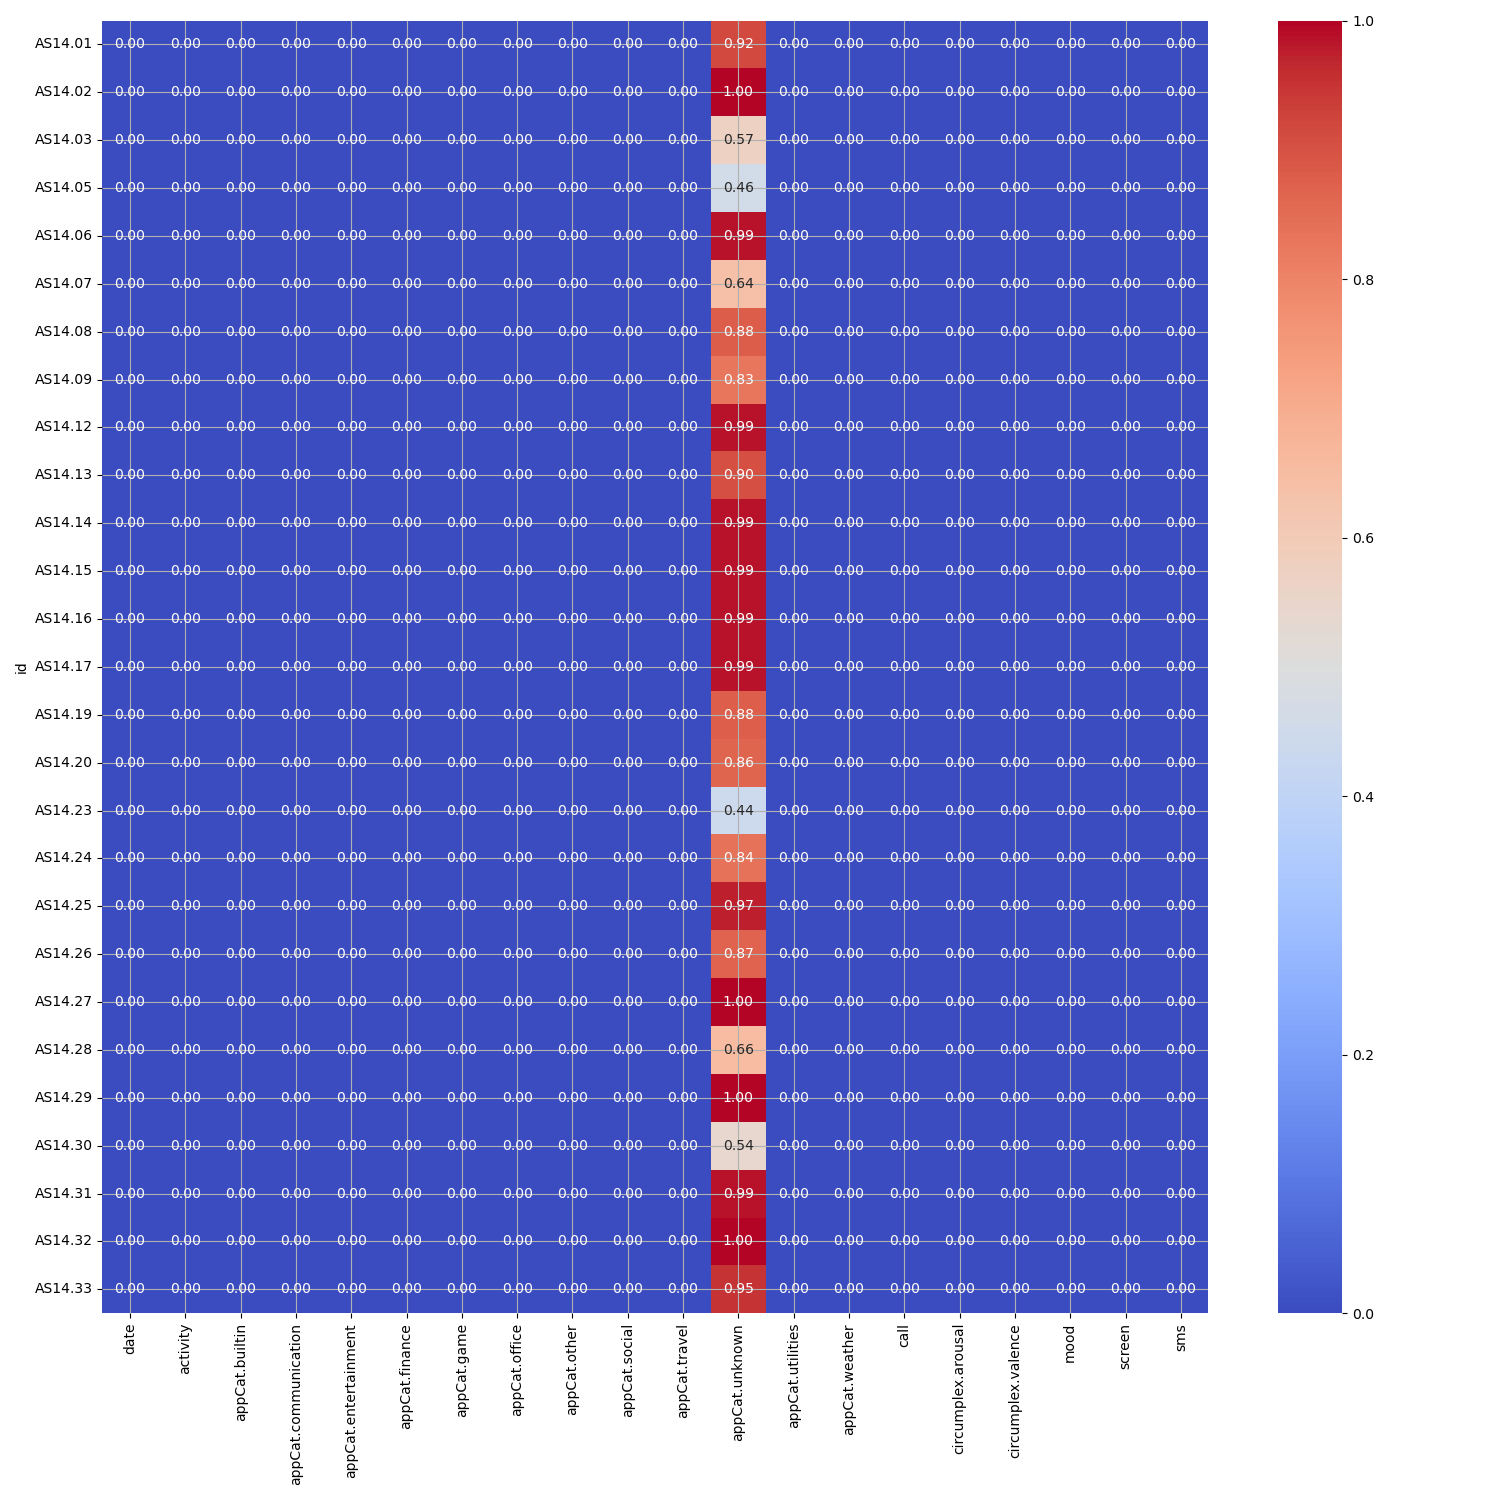
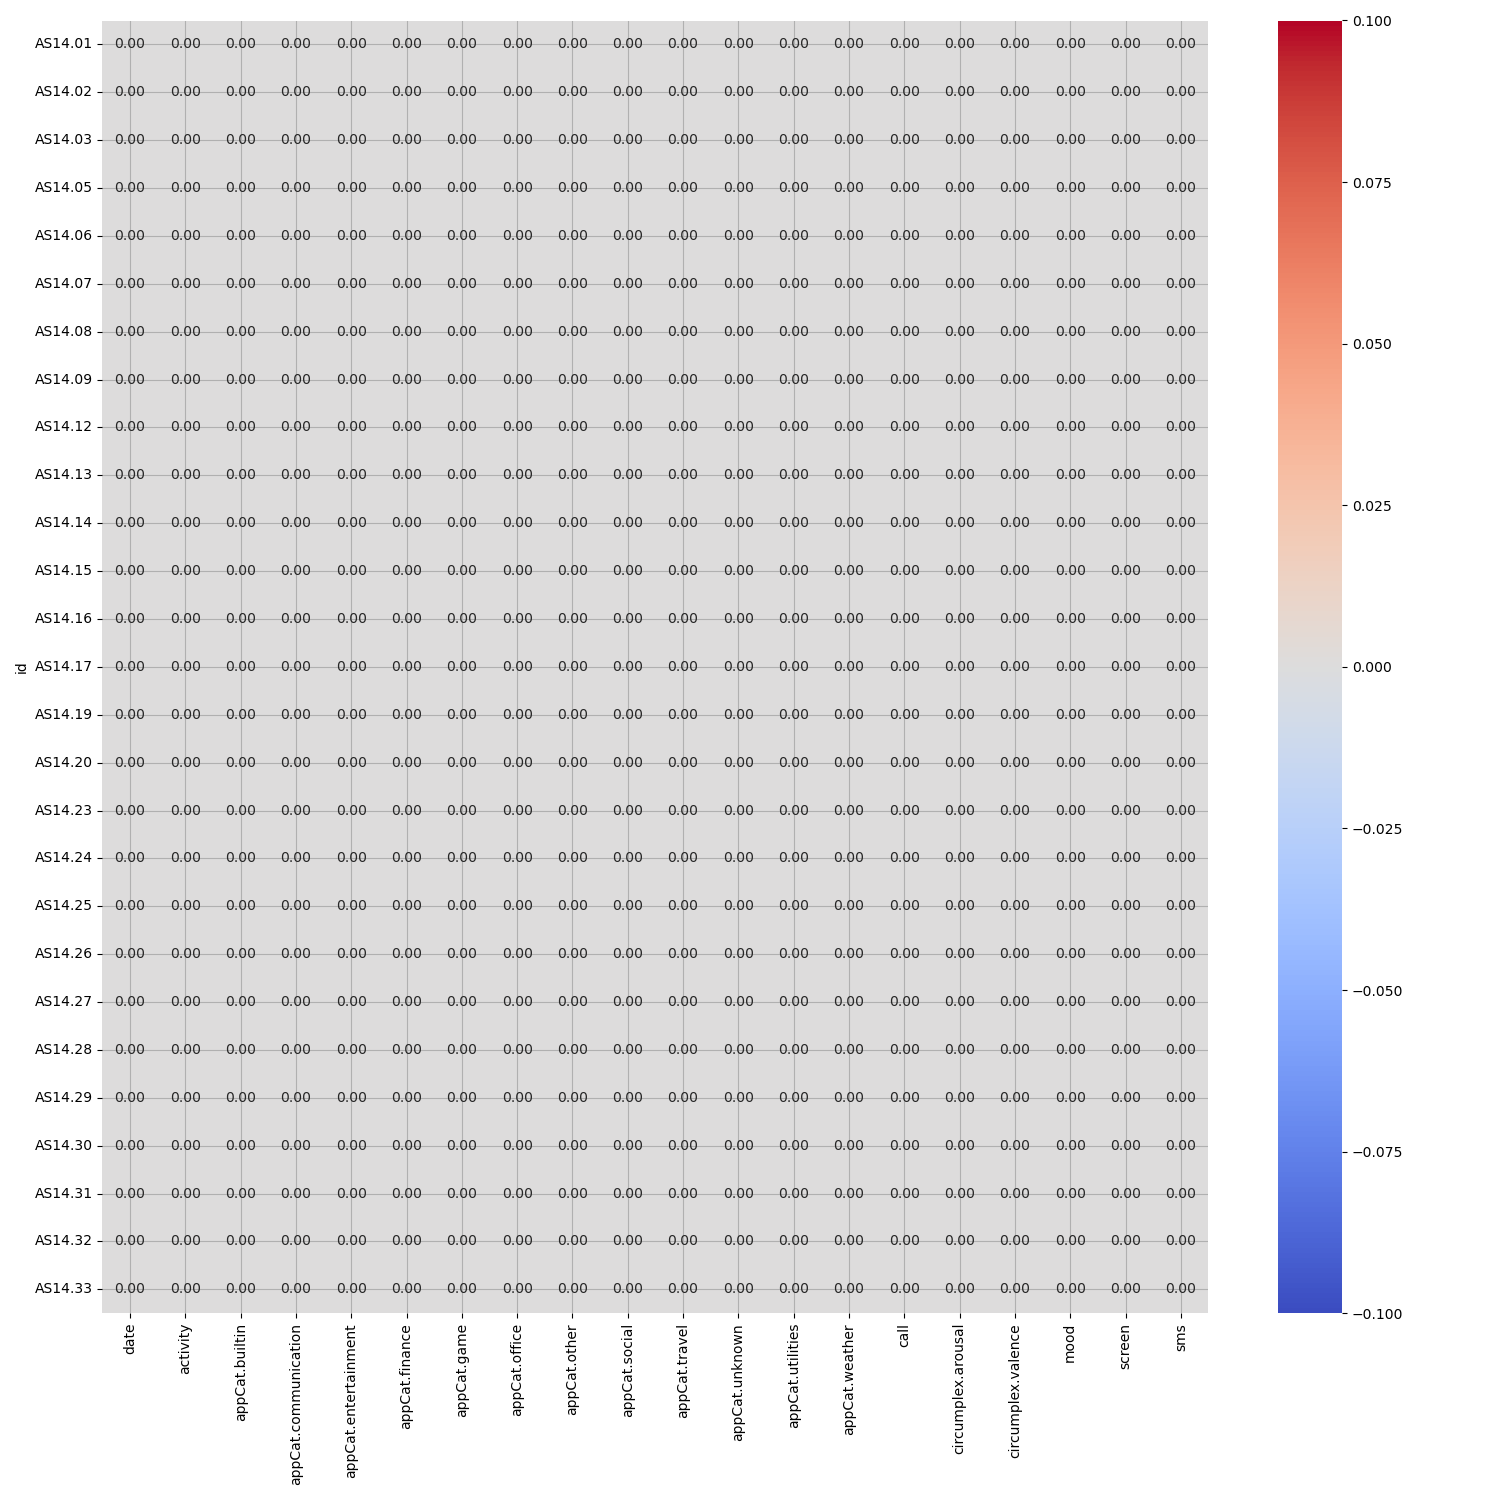
Pull

diff --git a/advanced dataset/models/missing_data_functions.py b/advanced dataset/models/missing_data_functions.py
@@ -21,44 +21,29 @@ def forward_filling(df_or):
 
     return df
 
-def moving_average(df_or):
-    """ 
-    Given the data frame, fills the columns that are empty with the moving average, and then with the average
-    """
-    df = df_or.copy()
-    
-    for i_d in self.ids:
-        data = df[(df['id'] == i_d)]
-        cumulative_means = data.expanding().mean()
-        data = data.fillna(cumulative_means)
-        print(data)
-        df.loc[df['id'] == i_d] = data
-      
-    df = average(df)
-
-    return df
 
 def average(df_or):
     """
     Fills the missing values by the average of all values on that day, then average of id and the extra missing values by the total average
     """
     df = df_or.copy()
-    print(df["appCat.unknown"])
+    df["appCat.unknown"] = pd.to_numeric(df["appCat.unknown"], errors='coerce')
+    
+    
     date_means = df.groupby('date').mean(numeric_only = True)
-    id_means = df.groupby('id').mean(numeric_only = True)
     columns_to_fill = df.select_dtypes(include=[np.number]).columns.tolist()
 
     for col in columns_to_fill:
         nan_indices = df[col].isna()
         df.loc[nan_indices, col] = df.loc[nan_indices, 'date'].map(date_means[col])
     
+    id_means = df.groupby('id').mean(numeric_only = True)
     columns_to_fill = df.select_dtypes(include=[np.number]).columns.tolist()
+
     for col in columns_to_fill:
         nan_indices = df[col].isna()
         df.loc[nan_indices, col] = df.loc[nan_indices, 'id'].map(id_means[col])
 
-
-    print(df)
     df = df.fillna(df.mean(numeric_only= True))
 
     return df

diff --git a/advanced dataset/missing_data.py b/advanced dataset/missing_data.py
@@ -10,7 +10,7 @@ from scipy.linalg import svd
 import matplotlib.pyplot as plt
 
 from sklearn import datasets, model_selection
-from models.missing_data_functions import forward_filling, moving_average, average, interpolation
+from models.missing_data_functions import forward_filling, average, interpolation
 
 
 
